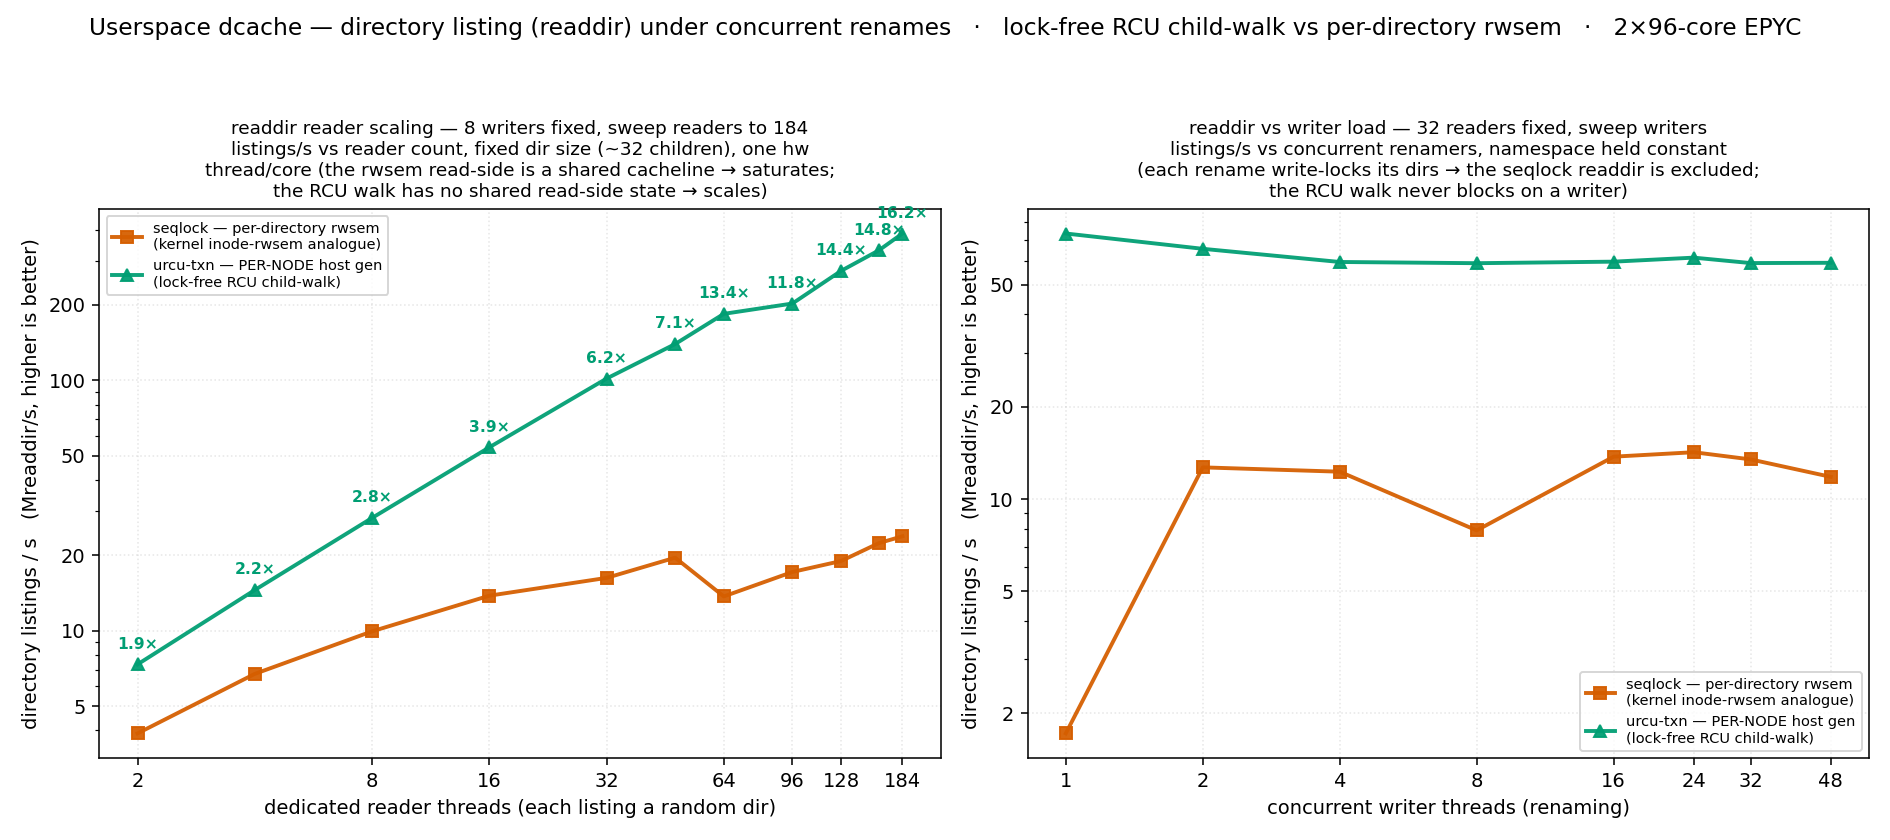
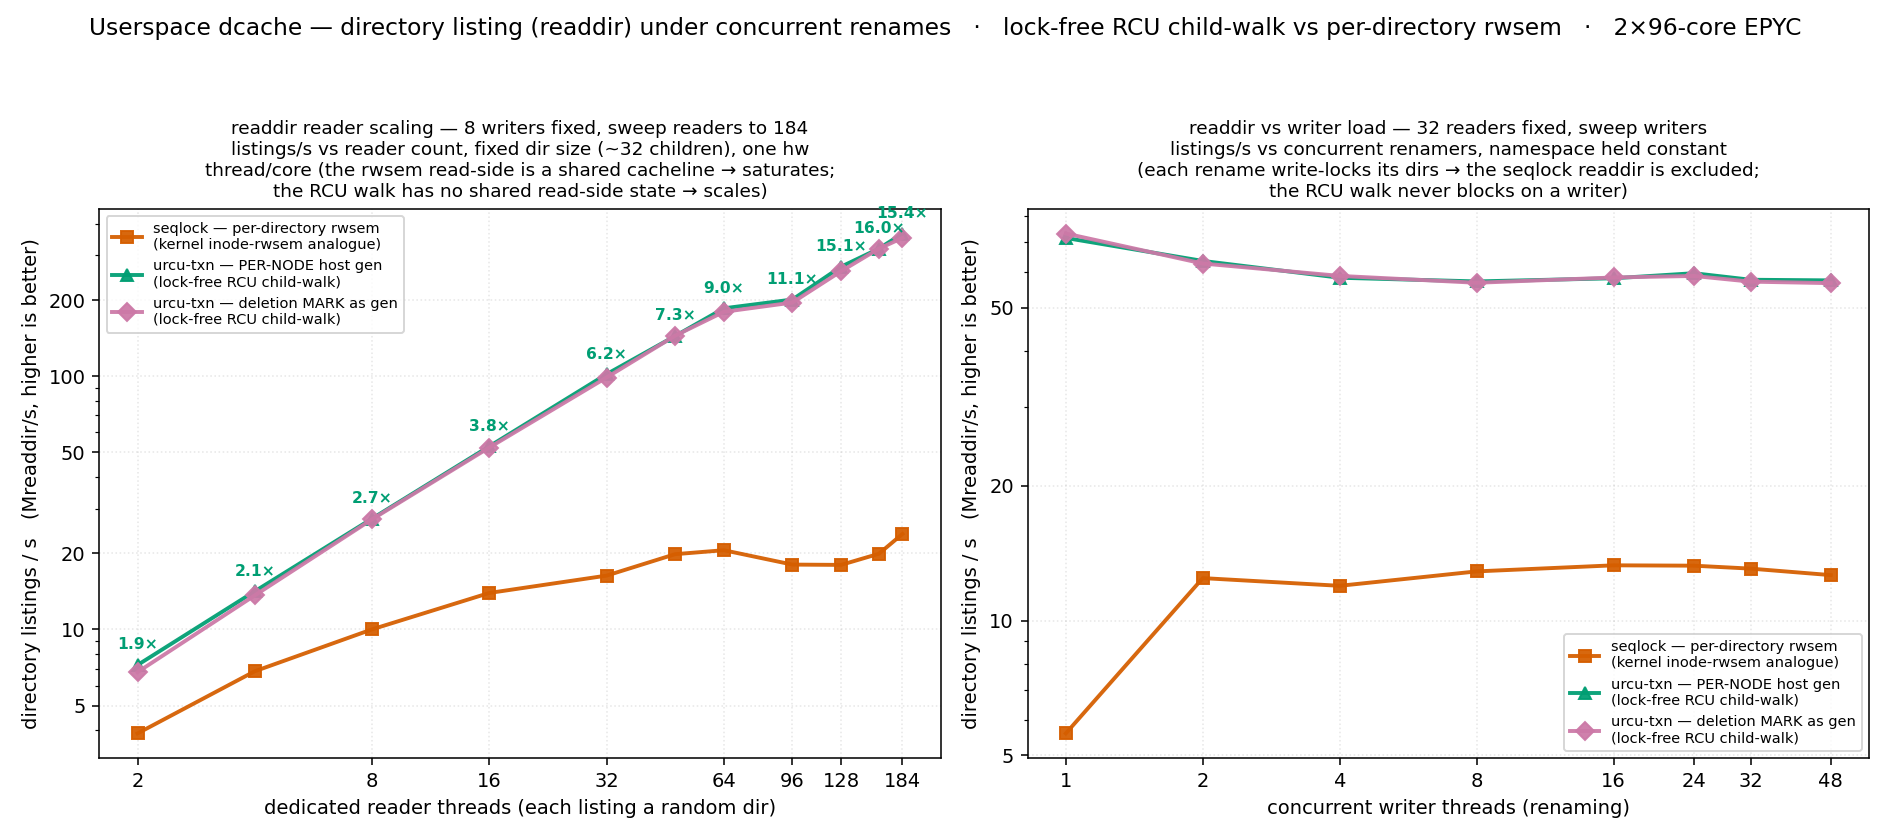
dcache: regenerate the S3 figures for four engines, and price the noise
The plot scripts hardcoded three-engine COLOR/MARKER/LABEL dicts and
ENGINES = ("seqlock", "txn-pernode"), so txn-mark would have been
silently dropped from both figures -- the CSV had it, the PNGs did not.
Both now carry the fourth engine and take an ENGINES=... override, and
the dcache_s3 title no longer claims the figure is per-node only.

txn-mark is plotted ON TOP of txn-pernode deliberately: the figure's job
is to show they coincide, since the mark arm's gain is the retired
counter and the 8 name bytes, not throughput.  It does coincide, in all
five panels.

HOW MUCH TO TRUST THE NUMBERS, measured rather than assumed.

the four-engine sweep commit quoted a 1.007x mark/per-node aggregate off
a SINGLE sweep, and broke it down per panel.  Both were over-precise.
The sweep reports best-of-5, which is biased high and carries no
variance information -- the right estimator for "how fast can this go",
the wrong one for "are these two the same".  Repeating the two reader
panels as three independent sweeps:

                    sweep 1   sweep 2   sweep 3
    split_w  (n=8)   0.996x    1.025x    1.028x
    split_scale(11)  1.012x    0.985x    0.989x
    combined (n=19)  1.005x    1.002x    1.005x

A single config re-measured across those sweeps moves by a median of
4.1% and up to 9.5%.  Per-panel aggregates still wander +-3%.  Only the
combined aggregate is stable: 1.004 +- 0.002.

So the equivalence claim holds -- mark and per-node are the same engine
[…]

diff --git a/scripts/plot_dcache.py b/scripts/plot_dcache.py
@@ -52,18 +52,27 @@ HERE = os.path.dirname(os.path.abspath(__file__))
 CSV = os.path.join(HERE, "dcache_sweep.csv")
 OUT = os.environ.get("OUT", os.path.join(HERE, os.pardir, "figures", "dcache_s3.png"))
 
-COLOR = {"seqlock": "#D55E00", "txn-global": "#0072B2", "txn-pernode": "#009E73"}
-MARKER = {"seqlock": "s", "txn-global": "o", "txn-pernode": "^"}
+COLOR = {"seqlock": "#D55E00", "txn-global": "#0072B2",
+         "txn-pernode": "#009E73", "txn-mark": "#CC79A7"}
+MARKER = {"seqlock": "s", "txn-global": "o", "txn-pernode": "^", "txn-mark": "D"}
 LABEL = {
     "seqlock": "seqlock — rename_lock + d_seq\n(faithful kernel baseline)",
     "txn-global": "urcu-txn — GLOBAL rename_gen\n(d_seq deleted, one global bracket)",
     "txn-pernode": "urcu-txn — PER-NODE host gen\n(localized: moved entry only)",
+    "txn-mark": "urcu-txn — deletion MARK as gen\n(localized, no counter; name 40)",
 }
-# Headline comparison: the faithful kernel baseline vs the winning design.  The
-# txn-global arm (an intermediate A/B showing a naive port that keeps one global
-# counter does NOT scale) stays in the CSV + the §7 prose, but is dropped from the
-# plotted lines to keep the figure a clean two-way.
-ENGINES = ("seqlock", "txn-pernode")
+# Headline comparison: the faithful kernel baseline vs the localized designs.
+# The txn-global arm (an intermediate A/B showing a naive port that keeps one
+# global counter does NOT scale) stays in the CSV + the §7 prose, but is dropped
+# from the plotted lines to keep the figure readable.
+#
+# txn-mark plots ON TOP of txn-pernode and is expected to sit on it: both run the
+# same localized reader and differ only in which CL0 word the stamp reads.  The
+# figure's job here is to show they coincide -- the mark arm's gain is the
+# retired counter and the 8 name bytes, not throughput.  Override with
+# ENGINES=... to plot a different subset.
+ENGINES = tuple(os.environ.get(
+    "ENGINES", "seqlock txn-pernode txn-mark").split())
 rows = list(csv.DictReader(open(CSV)))
 
 
@@ -151,7 +160,8 @@ for ax in (ax1, ax2, ax3):
         ax.legend(fontsize=7.5, loc="best")
 
 fig.suptitle("Userspace dcache — does urcu-txn dissolve rename_lock + d_seq?   "
-             "seqlock (kernel baseline) vs txn(per-node host gen)   ·   2×96-core EPYC",
+             "seqlock (kernel baseline) vs txn localized "
+             "(per-node gen, and no-counter deletion mark)   ·   2×96-core EPYC",
              fontsize=12)
 fig.tight_layout(rect=[0, 0, 1, 0.94])
 fig.savefig(OUT, dpi=140)

diff --git a/scripts/plot_dcache_readdir.py b/scripts/plot_dcache_readdir.py
@@ -51,14 +51,20 @@ CSV = os.path.join(HERE, "dcache_sweep.csv")
 OUT = os.environ.get("OUT",
                      os.path.join(HERE, os.pardir, "figures", "dcache_readdir.png"))
 
-COLOR = {"seqlock": "#D55E00", "txn-global": "#0072B2", "txn-pernode": "#009E73"}
-MARKER = {"seqlock": "s", "txn-global": "o", "txn-pernode": "^"}
+COLOR = {"seqlock": "#D55E00", "txn-global": "#0072B2",
+         "txn-pernode": "#009E73", "txn-mark": "#CC79A7"}
+MARKER = {"seqlock": "s", "txn-global": "o", "txn-pernode": "^", "txn-mark": "D"}
 LABEL = {
     "seqlock": "seqlock — per-directory rwsem\n(kernel inode-rwsem analogue)",
     "txn-global": "urcu-txn — GLOBAL rename_gen\n(lock-free RCU child-walk)",
     "txn-pernode": "urcu-txn — PER-NODE host gen\n(lock-free RCU child-walk)",
+    "txn-mark": "urcu-txn — deletion MARK as gen\n(lock-free RCU child-walk)",
 }
-ENGINES = ("seqlock", "txn-pernode")
+# The readdir reader path reads NO generation in any txn arm, so the localized
+# arms are expected to coincide here; the mark arm is plotted to show that, and
+# to make its small trailing visible rather than hidden in the CSV.
+ENGINES = tuple(os.environ.get(
+    "ENGINES", "seqlock txn-pernode txn-mark").split())
 rows = list(csv.DictReader(open(CSV)))
 
 

diff --git a/experiments/dcache/rename-shell-transition.md b/experiments/dcache/rename-shell-transition.md
@@ -601,6 +601,23 @@ The mark reaches the wider name at no struct growth; the skip needed 8 bytes for
 | 8 writers t=128 | 1700.9 | 1624.5 | 1693.7 |
 | 8 writers t=184 | 2126.1 | 2088.5 | 2055.9 |
 
+**How much to trust these numbers.** The sweep reports **best-of-5**, which is a
+biased-high estimator with no variance information -- right for "how fast can
+this go", wrong for "are these two the same". Measured directly by repeating the
+two reader panels as three INDEPENDENT sweeps:
+
+| | sweep 1 | sweep 2 | sweep 3 |
+|---|---|---|---|
+| `split_w` (n=8) | 0.996x | 1.025x | 1.028x |
+| `split_scale` (n=11) | 1.012x | 0.985x | 0.989x |
+| **combined (n=19)** | **1.005x** | **1.002x** | **1.005x** |
+
+A *single* config re-measured across those sweeps moves by a median of **4.1%**
+and up to **9.5%**. Per-panel aggregates still wander **±3%**. Only the combined
+aggregate is stable, at **1.004 ± 0.002**. So: quote the combined figure, treat
+any single point as noise, and do not read a per-panel aggregate as a result --
+including the `frac` outlier above.
+
 **These buy density, not throughput.** Every arm sits within a couple of percent
 of the others. At t=128 under rename load the mark closes the skip's deficit
 (−0.4% vs −4.5%), which is consistent with that deficit being the skip's
